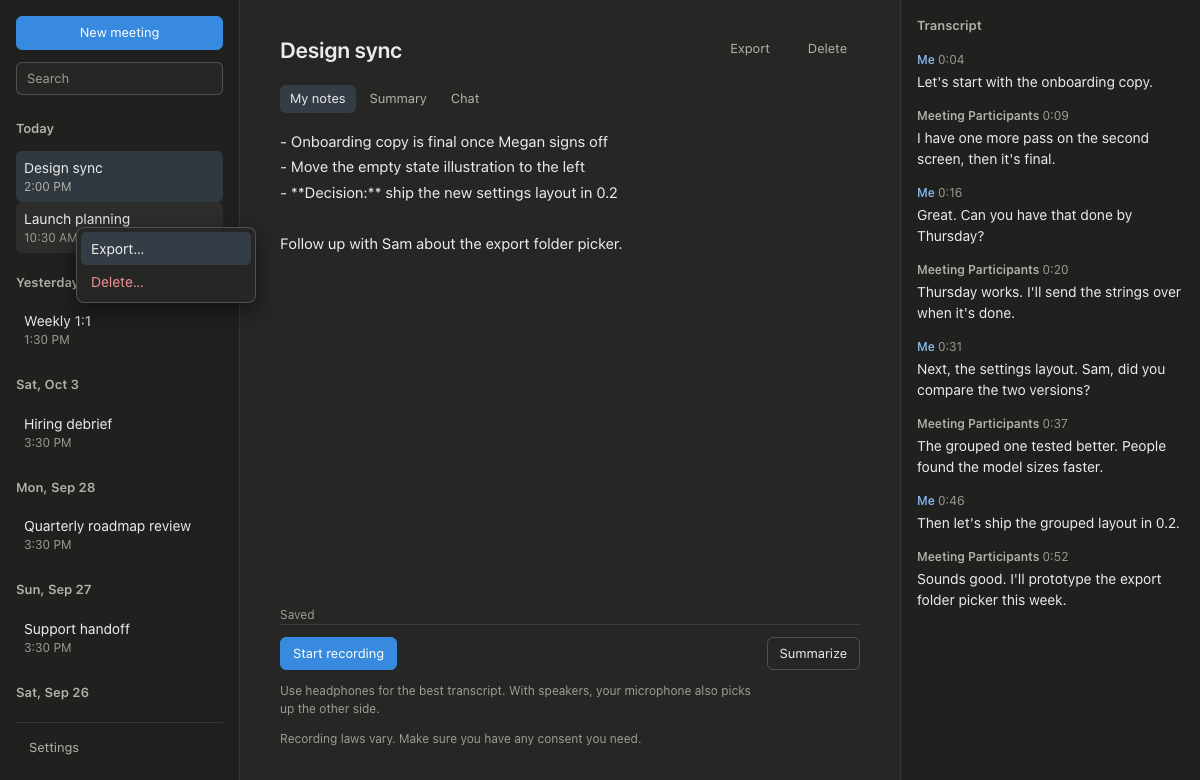
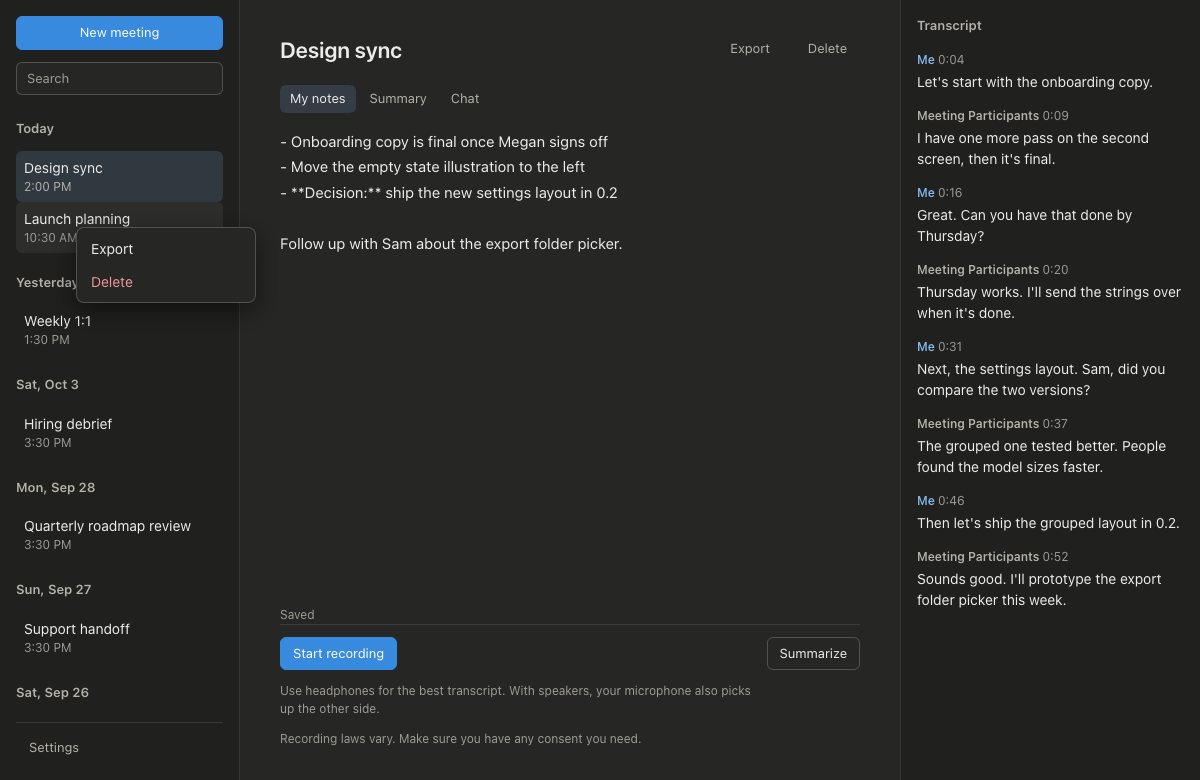
#140: Highlight menu items only on hover or keyboard focus, and drop their ellipses
The first item takes focus when the menu opens so the arrow keys work, but
plain focus highlighted it even when you opened the menu with the mouse.
Only hover and keyboard focus highlight an item now, as in a macOS menu.

Changed region(s): [[0.0617, 0.2769, 0.2158, 0.3385]]

diff --git a/src/App.test.tsx b/src/App.test.tsx
@@ -94,8 +94,8 @@ describe("App", () => {
 
       expect(shown).toBe(false); // The webview's own menu is prevented.
       expect(screen.getByRole("menu", { name: "Design sync" })).toBeInTheDocument();
-      expect(menuItems()).toEqual(["Export…", "Delete…"]);
-      expect(screen.getByRole("menuitem", { name: "Export…" })).toHaveFocus();
+      expect(menuItems()).toEqual(["Export", "Delete"]);
+      expect(screen.getByRole("menuitem", { name: "Export" })).toHaveFocus();
       await user.keyboard("{Escape}");
       expect(screen.queryByRole("menu")).not.toBeInTheDocument();
       expect(meeting).toHaveFocus();
@@ -106,7 +106,7 @@ describe("App", () => {
       vi.mocked(save).mockResolvedValue("/Users/me/Documents/design.md");
       await rightClick(user, item("Design sync"));
 
-      await user.click(screen.getByRole("menuitem", { name: "Export…" }));
+      await user.click(screen.getByRole("menuitem", { name: "Export" }));
 
       expect(vi.mocked(save)).toHaveBeenCalledWith(expect.objectContaining({ defaultPath: "2026-10-03-meeting-1.md" }));
       expect(await within(sidebar()).findByText("/Users/me/Documents/design.md")).toBeInTheDocument();
@@ -120,7 +120,7 @@ describe("App", () => {
       await user.click(item("Design sync"));
       await rightClick(user, item("Retro"));
 
-      await user.click(screen.getByRole("menuitem", { name: "Delete…" }));
+      await user.click(screen.getByRole("menuitem", { name: "Delete" }));
       const dialog = screen.getByRole("dialog", { name: "Delete “Retro”?" });
       expect(within(dialog).getByRole("button", { name: "Cancel" })).toHaveFocus();
       await user.click(within(dialog).getByRole("button", { name: "Delete meeting" }));
@@ -134,7 +134,7 @@ describe("App", () => {
     it("keeps the meeting when you cancel the delete", async () => {
       const { backend, user } = await start([seedMeeting(1, "Design sync")]);
       await rightClick(user, item("Design sync"));
-      await user.click(screen.getByRole("menuitem", { name: "Delete…" }));
+      await user.click(screen.getByRole("menuitem", { name: "Delete" }));
 
       await user.click(within(screen.getByRole("dialog")).getByRole("button", { name: "Cancel" }));
 
@@ -154,8 +154,8 @@ describe("App", () => {
       await rightClick(user, item("Three"));
 
       expect(screen.getByRole("menu", { name: "2 selected meetings" })).toBeInTheDocument();
-      expect(menuItems()).toEqual(["Export 2 meetings…"]);
-      await user.click(screen.getByRole("menuitem", { name: "Export 2 meetings…" }));
+      expect(menuItems()).toEqual(["Export 2 meetings"]);
+      await user.click(screen.getByRole("menuitem", { name: "Export 2 meetings" }));
       expect(await within(sidebar()).findByText(/Exported 2 meetings/)).toBeInTheDocument();
       expect(backend.state.exports[0].ids).toEqual([1, 3]);
     });
@@ -170,7 +170,7 @@ describe("App", () => {
       await rightClick(user, item("Two"));
 
       expect(screen.getByRole("menu", { name: "Two" })).toBeInTheDocument();
-      expect(menuItems()).toEqual(["Export…", "Delete…"]);
+      expect(menuItems()).toEqual(["Export", "Delete"]);
     });
 
     it("opens from the keyboard and moves with the arrow keys", async () => {
@@ -179,11 +179,11 @@ describe("App", () => {
 
       await user.keyboard("{Shift>}{F10}{/Shift}");
 
-      expect(screen.getByRole("menuitem", { name: "Export…" })).toHaveFocus();
+      expect(screen.getByRole("menuitem", { name: "Export" })).toHaveFocus();
       await user.keyboard("{ArrowDown}");
-      expect(screen.getByRole("menuitem", { name: "Delete…" })).toHaveFocus();
+      expect(screen.getByRole("menuitem", { name: "Delete" })).toHaveFocus();
       await user.keyboard("{ArrowDown}");
-      expect(screen.getByRole("menuitem", { name: "Export…" })).toHaveFocus();
+      expect(screen.getByRole("menuitem", { name: "Export" })).toHaveFocus();
       await user.keyboard("{ArrowUp}{Enter}");
       expect(screen.getByRole("dialog", { name: "Delete “Design sync”?" })).toBeInTheDocument();
     });

diff --git a/screenshots/scenes.spec.ts b/screenshots/scenes.spec.ts
@@ -45,8 +45,32 @@ test("meeting menu", async ({ page }) => {
   const meeting = sidebar(page).getByRole("button", { name: /^Launch planning,/ });
   const box = (await meeting.boundingBox())!;
   await page.mouse.click(box.x + 60, box.y + box.height / 2, { button: "right" });
-  await expect(page.getByRole("menuitem", { name: "Export…" })).toBeFocused();
+  await expect(page.getByRole("menuitem", { name: "Export" })).toBeFocused();
   await expect(page).toHaveScreenshot("meeting-menu.png");
+});
+
+test("the meeting menu highlights an item only on hover or from the keyboard", async ({ page }) => {
+  await open(page, "meeting");
+  await openMeeting(page, "Design sync");
+  const meeting = sidebar(page).getByRole("button", { name: /^Launch planning,/ });
+  const exportItem = page.getByRole("menuitem", { name: "Export" });
+  const background = () => exportItem.evaluate((item) => getComputedStyle(item).backgroundColor);
+  const box = (await meeting.boundingBox())!;
+
+  await page.mouse.click(box.x + 60, box.y + box.height / 2, { button: "right" });
+  await expect(exportItem).toBeFocused();
+  const plain = await background();
+  expect(plain).toBe("rgba(0, 0, 0, 0)");
+
+  await exportItem.hover();
+  expect(await background()).not.toBe(plain);
+
+  await page.keyboard.press("Escape");
+  await page.mouse.move(0, 0);
+  await meeting.focus();
+  await page.keyboard.press("Shift+F10");
+  await expect(exportItem).toBeFocused();
+  expect(await background()).not.toBe(plain);
 });
 
 test("delete dialog", async ({ page }) => {

diff --git a/src/features/meetings/MeetingList.tsx b/src/features/meetings/MeetingList.tsx
@@ -77,14 +77,14 @@ export function MeetingList({
     if (multiSelect && selectedIds.includes(meetingId)) {
       return {
         label: `${selectedIds.length} selected meetings`,
-        items: [{ label: `Export ${selectedIds.length} meetings…`, onSelect: () => onExport(selectedIds) }],
+        items: [{ label: `Export ${selectedIds.length} meetings`, onSelect: () => onExport(selectedIds) }],
       };
     }
     return {
       label: title,
       items: [
-        { label: "Export…", onSelect: () => onExport([meetingId]) },
-        { label: "Delete…", onSelect: () => onDelete(meetingId, title), danger: true },
+        { label: "Export", onSelect: () => onExport([meetingId]) },
+        { label: "Delete", onSelect: () => onDelete(meetingId, title), danger: true },
       ],
     };
   }

diff --git a/src/styles.css b/src/styles.css
@@ -405,10 +405,16 @@ body {
   cursor: default;
 }
 
-.context-menu-item:hover,
+/* Like a macOS menu, nothing is highlighted until you point at an item or
+   use the keyboard: the first item has focus from the start, so the arrow
+   keys work, but plain focus doesn't show. */
 .context-menu-item:focus {
-  background: var(--selected);
   outline: none;
+}
+
+.context-menu-item:hover,
+.context-menu-item:focus-visible {
+  background: var(--selected);
 }
 
 .context-menu-item:focus-visible {
